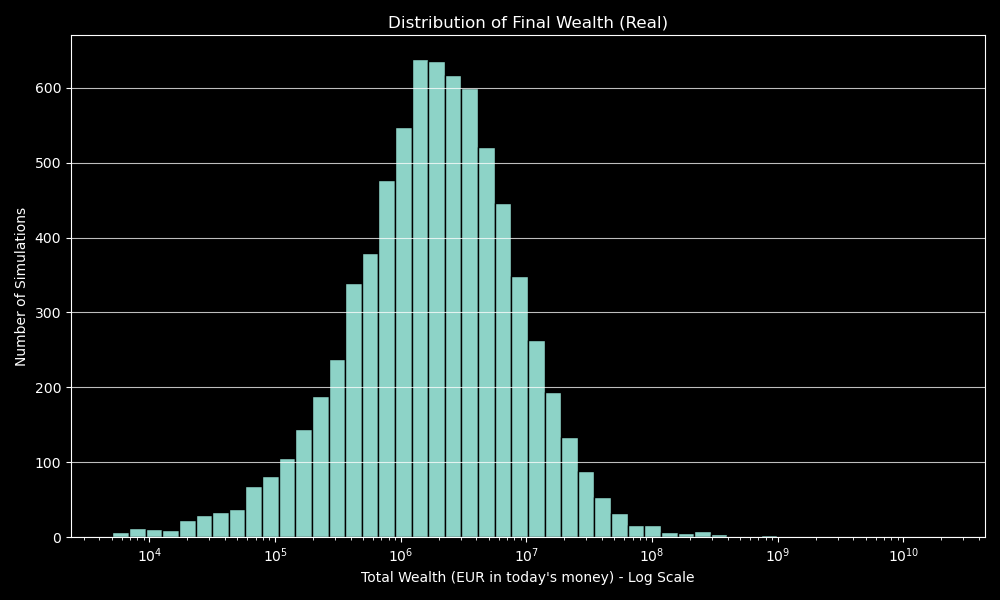
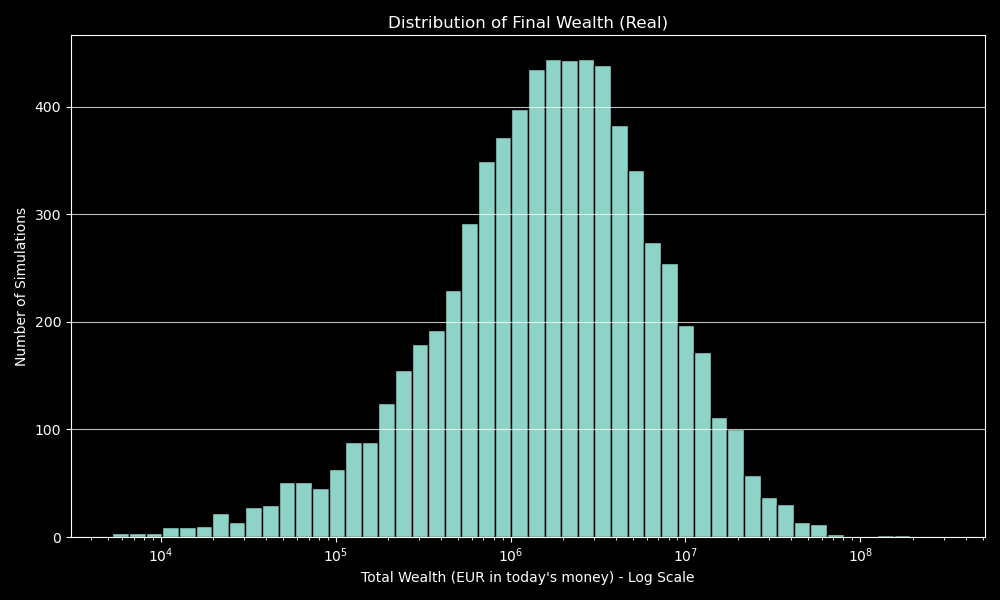
Docs.

diff --git a/docs/reports/summary.md b/docs/reports/summary.md
@@ -1,74 +1,74 @@
 # FIRE Plan Simulation Report
 
-Report generated on: 2025-07-21 14:34:54
+Report generated on: 2025-07-24 12:20:42
 Using configuration: `config.toml`
 
 ## FIRE Plan Simulation Summary
 
-- **FIRE Plan Success Rate:** 73.70%
-- **Number of failed simulations:** 2630
-- **Average months lasted in failed simulations:** 580.0
+- **FIRE Plan Success Rate:** 70.15%
+- **Number of failed simulations:** 2985
+- **Average months lasted in failed simulations:** 578.5
 
 ## Final Wealth Distribution Statistics (Successful Simulations)
 
 | Statistic                     | Nominal Final Wealth          | Real Final Wealth (Today's Money) |
 |-------------------------------|-------------------------------|-----------------------------------|
-| Median (P50)                  | 9,964,529.86  | 1,922,137.00         |
-| 25th Percentile (P25)         | 3,741,250.62     | 729,722.90            |
-| 75th Percentile (P75)         | 24,722,318.65     | 4,881,748.14            |
-| Interquartile Range (P75-P25) | 20,981,068.03     | 4,152,025.24            |
+| Median (P50)                  | 9,477,741.48  | 1,762,743.87         |
+| 25th Percentile (P25)         | 3,600,072.23     | 678,297.13            |
+| 75th Percentile (P75)         | 22,380,777.30     | 4,336,351.09            |
+| Interquartile Range (P75-P25) | 18,780,705.07     | 3,658,053.95            |
 
 ## Nominal Results (cases selected by nominal final wealth)
 
 #### Worst Successful Case (Nominal)
 
-- **Final Wealth (Nominal):** 16,759.43
-- **Final Wealth (Real):** 5,192.04
-- **Your life CAGR (Nominal):** -3.86%
-- **Final Allocations (percent):** stocks: 100.0%, bonds: 0.0%, str: 0.0%, eth: 0.0%, ag: 0.0%, real_estate: 0.0%
-- **Nominal Asset Values:** stocks: 619.87 , bonds: 0.00 , str: 0.00 , eth: 0.00 , ag: 0.00 , real_estate: 0.00 , Bank: 16,139.56
+- **Final Wealth (Nominal):** 24,790.71
+- **Final Wealth (Real):** 6,153.34
+- **Your life CAGR (Nominal):** 1.63%
+- **Final Allocations (percent):** stocks: 100.0%, bonds: 0.0%, str: 0.0%, eth: 0.0%, ag: 0.0%, real_estate: 0.0%, inflation: 0.0%
+- **Nominal Asset Values:** stocks: 4,646.59 , bonds: 0.00 , str: 0.00 , eth: 0.00 , ag: 0.00 , real_estate: 0.00 , inflation: 0.00 , Bank: 20,144.12
 
 #### Median Successful Case (Nominal)
 
-- **Final Wealth (Nominal):** 9,965,313.82
-- **Final Wealth (Real):** 1,930,880.64
-- **Your life CAGR (Nominal):** 5.33%
-- **Final Allocations (percent):** stocks: 100.0%, bonds: 0.0%, str: 0.0%, eth: 0.0%, ag: 0.0%, real_estate: 0.0%
-- **Nominal Asset Values:** stocks: 9,939,508.72 , bonds: 0.00 , str: 0.00 , eth: 0.00 , ag: 0.00 , real_estate: 0.00 , Bank: 25,805.10
+- **Final Wealth (Nominal):** 9,477,741.48
+- **Final Wealth (Real):** 2,181,489.57
+- **Your life CAGR (Nominal):** 10.64%
+- **Final Allocations (percent):** stocks: 100.0%, bonds: 0.0%, str: 0.0%, eth: 0.0%, ag: 0.0%, real_estate: 0.0%, inflation: 0.0%
+- **Nominal Asset Values:** stocks: 9,456,018.38 , bonds: 0.00 , str: 0.00 , eth: 0.00 , ag: 0.00 , real_estate: 0.00 , inflation: 0.00 , Bank: 21,723.10
 
 #### Best Successful Case (Nominal)
 
-- **Final Wealth (Nominal):** 96,107,471,695.02
-- **Final Wealth (Real):** 20,796,620,399.07
-- **Your life CAGR (Nominal):** 20.08%
-- **Final Allocations (percent):** stocks: 89.2%, bonds: 10.8%, str: 0.0%, eth: 0.0%, ag: 0.0%, real_estate: 0.0%
-- **Nominal Asset Values:** stocks: 85,746,734,062.56 , bonds: 10,360,714,525.94 , str: 0.00 , eth: 0.00 , ag: 0.00 , real_estate: 0.00 , Bank: 23,106.51
+- **Final Wealth (Nominal):** 1,561,374,224.98
+- **Final Wealth (Real):** 298,305,313.59
+- **Your life CAGR (Nominal):** 19.01%
+- **Final Allocations (percent):** stocks: 97.6%, bonds: 2.4%, str: 0.0%, eth: 0.0%, ag: 0.0%, real_estate: 0.0%, inflation: 0.0%
+- **Nominal Asset Values:** stocks: 1,523,933,739.48 , bonds: 37,414,314.76 , str: 0.00 , eth: 0.00 , ag: 0.00 , real_estate: 0.00 , inflation: 0.00 , Bank: 26,170.74
 
 ## Real Results (cases selected by real final wealth)
 
 #### Worst Successful Case (Real)
 
-- **Final Wealth (Real):** 5,073.58
-- **Final Wealth (Nominal):** 37,045.68
-- **Your life CAGR (Real):** -5.48%
-- **Final Allocations (percent):** stocks: 100.0%, bonds: 0.0%, str: 0.0%, eth: 0.0%, ag: 0.0%, real_estate: 0.0%
-- **Nominal Asset Values:** stocks: 537.25 , bonds: 0.00 , str: 0.00 , eth: 0.00 , ag: 0.00 , real_estate: 0.00 , Bank: 36,508.43
+- **Final Wealth (Real):** 5,298.27
+- **Final Wealth (Nominal):** 28,576.10
+- **Your life CAGR (Real):** -0.59%
+- **Final Allocations (percent):** stocks: 100.0%, bonds: 0.0%, str: 0.0%, eth: 0.0%, ag: 0.0%, real_estate: 0.0%, inflation: 0.0%
+- **Nominal Asset Values:** stocks: 1,608.71 , bonds: 0.00 , str: 0.00 , eth: 0.00 , ag: 0.00 , real_estate: 0.00 , inflation: 0.00 , Bank: 26,967.39
 
 #### Median Successful Case (Real)
 
-- **Final Wealth (Real):** 1,922,173.18
-- **Final Wealth (Nominal):** 9,915,880.33
-- **Your life CAGR (Real):** 2.88%
-- **Final Allocations (percent):** stocks: 100.0%, bonds: 0.0%, str: 0.0%, eth: 0.0%, ag: 0.0%, real_estate: 0.0%
-- **Nominal Asset Values:** stocks: 9,890,086.92 , bonds: 0.00 , str: 0.00 , eth: 0.00 , ag: 0.00 , real_estate: 0.00 , Bank: 25,793.41
+- **Final Wealth (Real):** 1,762,743.87
+- **Final Wealth (Nominal):** 10,899,607.97
+- **Your life CAGR (Real):** 8.01%
+- **Final Allocations (percent):** stocks: 100.0%, bonds: 0.0%, str: 0.0%, eth: 0.0%, ag: 0.0%, real_estate: 0.0%, inflation: 0.0%
+- **Nominal Asset Values:** stocks: 10,868,691.37 , bonds: 0.00 , str: 0.00 , eth: 0.00 , ag: 0.00 , real_estate: 0.00 , inflation: 0.00 , Bank: 30,916.60
 
 #### Best Successful Case (Real)
 
-- **Final Wealth (Real):** 20,796,620,399.07
-- **Final Wealth (Nominal):** 96,107,471,695.02
-- **Your life CAGR (Real):** 17.48%
-- **Final Allocations (percent):** stocks: 89.2%, bonds: 10.8%, str: 0.0%, eth: 0.0%, ag: 0.0%, real_estate: 0.0%
-- **Nominal Asset Values:** stocks: 85,746,734,062.56 , bonds: 10,360,714,525.94 , str: 0.00 , eth: 0.00 , ag: 0.00 , real_estate: 0.00 , Bank: 23,106.51
+- **Final Wealth (Real):** 298,305,313.59
+- **Final Wealth (Nominal):** 1,561,374,224.98
+- **Your life CAGR (Real):** 16.23%
+- **Final Allocations (percent):** stocks: 97.6%, bonds: 2.4%, str: 0.0%, eth: 0.0%, ag: 0.0%, real_estate: 0.0%, inflation: 0.0%
+- **Nominal Asset Values:** stocks: 1,523,933,739.48 , bonds: 37,414,314.76 , str: 0.00 , eth: 0.00 , ag: 0.00 , real_estate: 0.00 , inflation: 0.00 , Bank: 26,170.74
 
 ## Visualizations
 
@@ -156,33 +156,27 @@ initial_bank_balance = 8000.0
 bank_lower_bound = 5000.0
 bank_upper_bound = 10000.0
 years_to_simulate = 70
-monthly_salary = 4000.0
-salary_inflation_factor = 1.01
-salary_start_year = 0
+monthly_salary_steps = [
+    { year = 0, monthly_amount = 4000.0 },
+    { year = 5, monthly_amount = 5000.0 },
+    { year = 10, monthly_amount = 7000.0 },
+    { year = 15, monthly_amount = 10000.0 },
+]
+salary_inflation_factor = 0.6
 salary_end_year = 20
 monthly_pension = 4000.0
 pension_inflation_factor = 0.6
 pension_start_year = 37
 planned_contributions = [
-    { amount = 20000.0, year = 5 },
-    { amount = 20000.0, year = 10 },
-    { amount = 10000.0, year = 15 },
+    { amount = 0.0, year = 0 },
 ]
 annual_fund_fee = 0.0015
 monthly_expenses = 2500.0
 planned_extra_expenses = [
-    { amount = 30000.0, year = 20, description = "Buy a car" },
+    { amount = 30000.0, year = 37, description = "Buy a car" },
 ]
 planned_house_purchase_cost = 0.0
 house_purchase_year = 0
-
-[deterministic_inputs.initial_portfolio]
-stocks = 200000.0
-bonds = 20000.0
-str = 15000.0
-eth = 10000.0
-ag = 10000.0
-real_estate = 0.0
 
 [correlation_matrix]
 assets_order = [
@@ -205,6 +199,16 @@ matrix = [
 ]
 
 [[portfolio_rebalances]]
+year = 0
+description = "start allocation"
+
+[portfolio_rebalances.weights]
+stocks = 0.8
+bonds = 0.15
+eth = 0.025
+ag = 0.025
+
+[[portfolio_rebalances]]
 year = 20
 description = "De-risking for retirement"
 
@@ -214,15 +218,6 @@ bonds = 0.4
 
 [simulation_parameters]
 num_simulations = 10000
-
-[[shocks]]
-year = 10
-description = "October 1929"
-
-[shocks.impact]
-stocks = -0.35
-bonds = 0.02
-inflation = -0.023
 
 [paths]
 output_root = "output/"
